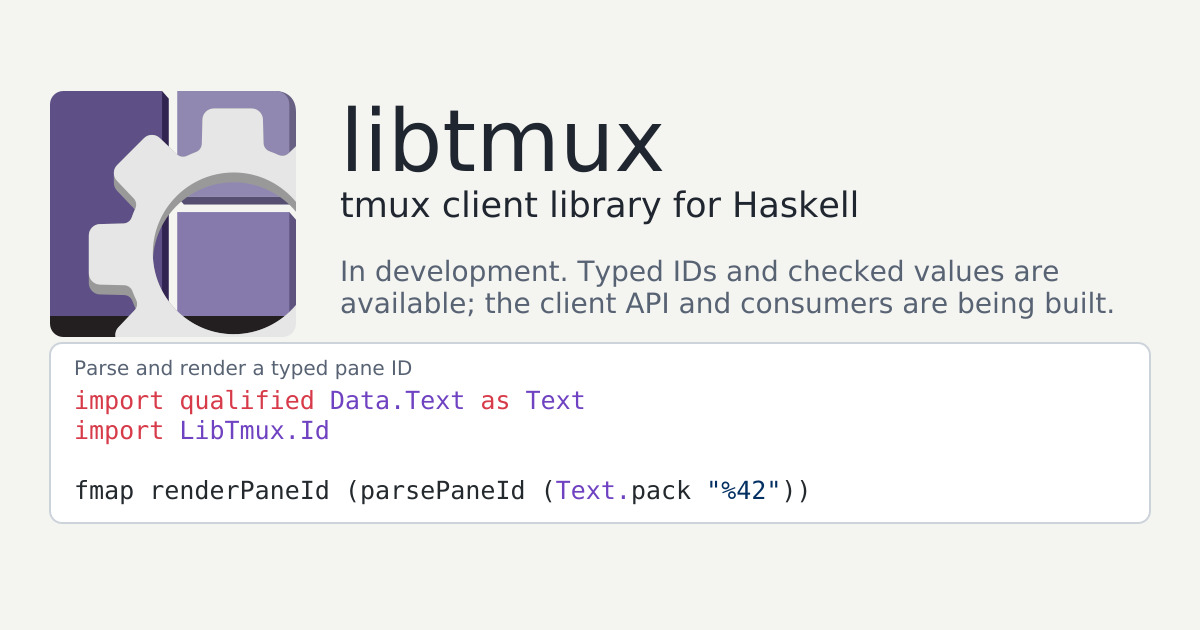
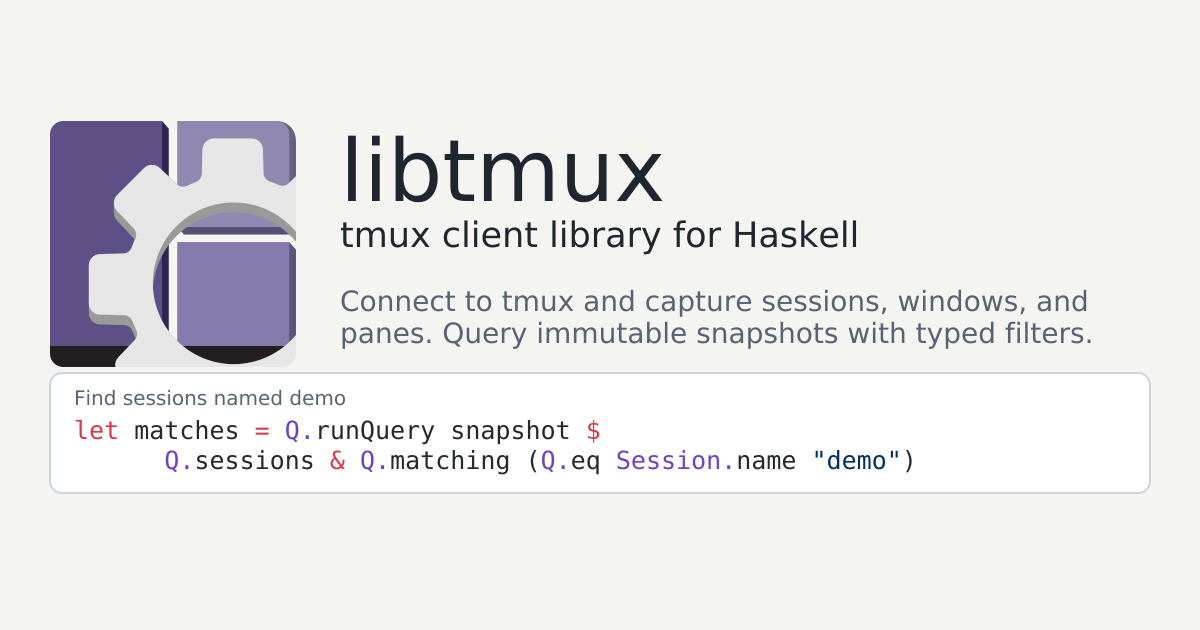
docs(fix[branding]) Show a typed session query
why: Sharing previews should demonstrate the implemented library API.
what:
- Refresh sharing cards and their per-file source revisions
- Use ordinary tmux names in the displayed example

Changed region(s): [[0.0308, 0.1206, 0.9558, 0.8444]]

diff --git a/docs/branding.md b/docs/branding.md
@@ -12,3 +12,7 @@
   cards stay in the central kit.
 - The manifests start at `/`. A documentation publisher must adjust `id`,
   `start_url` and `scope` to its deployment path before linking them.
+
+The library sharing cards show a native query verified against a private tmux
+server. File entries with a `revision` in `assets/source.json` override the
+default source revision for those exports.
